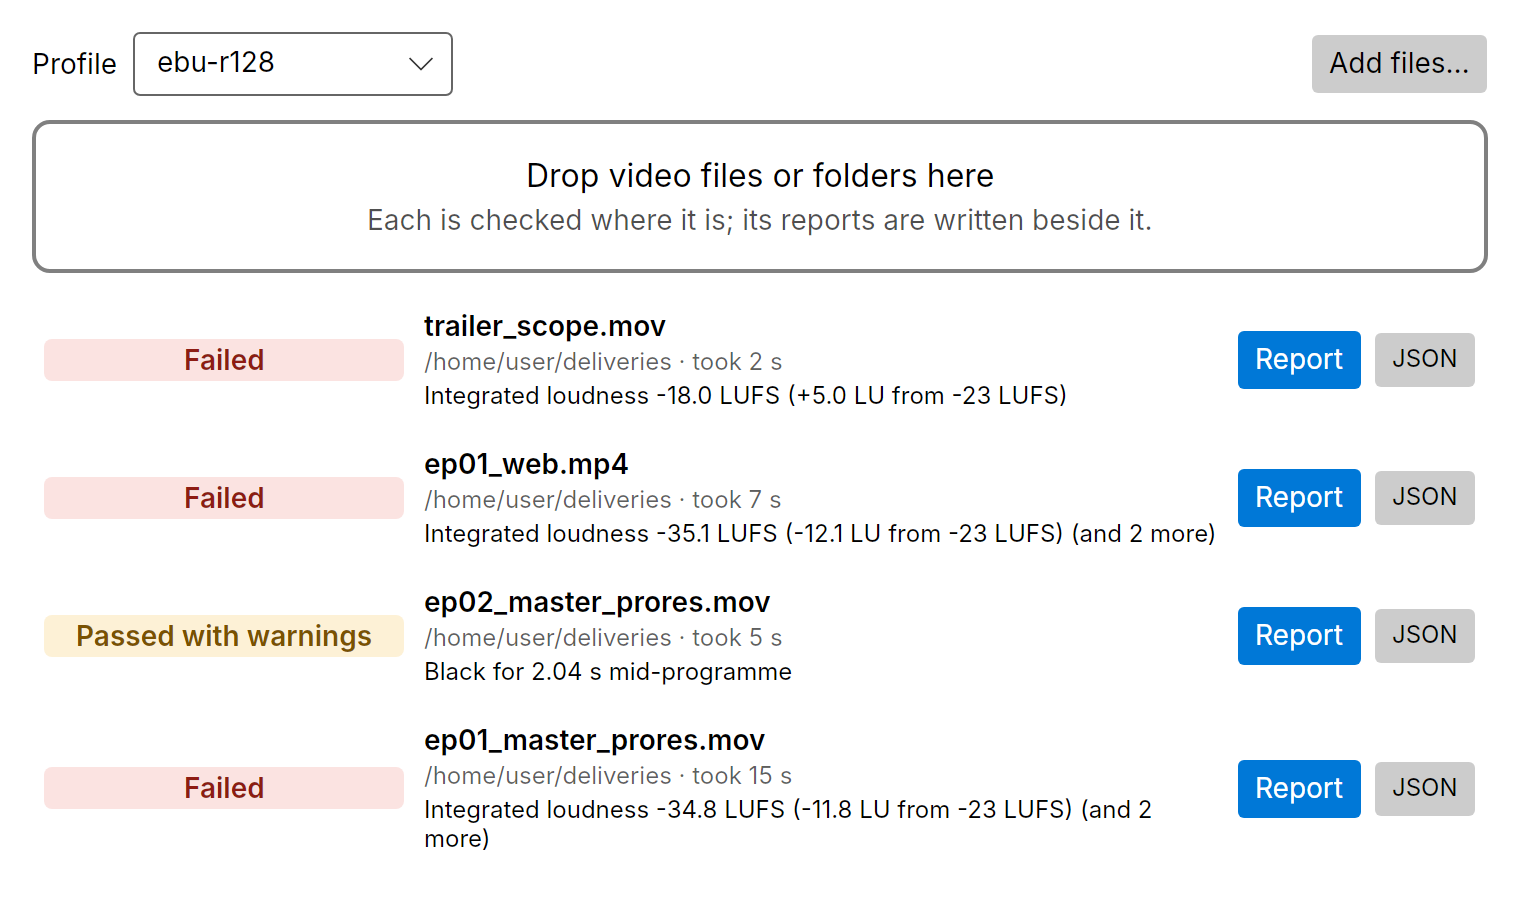
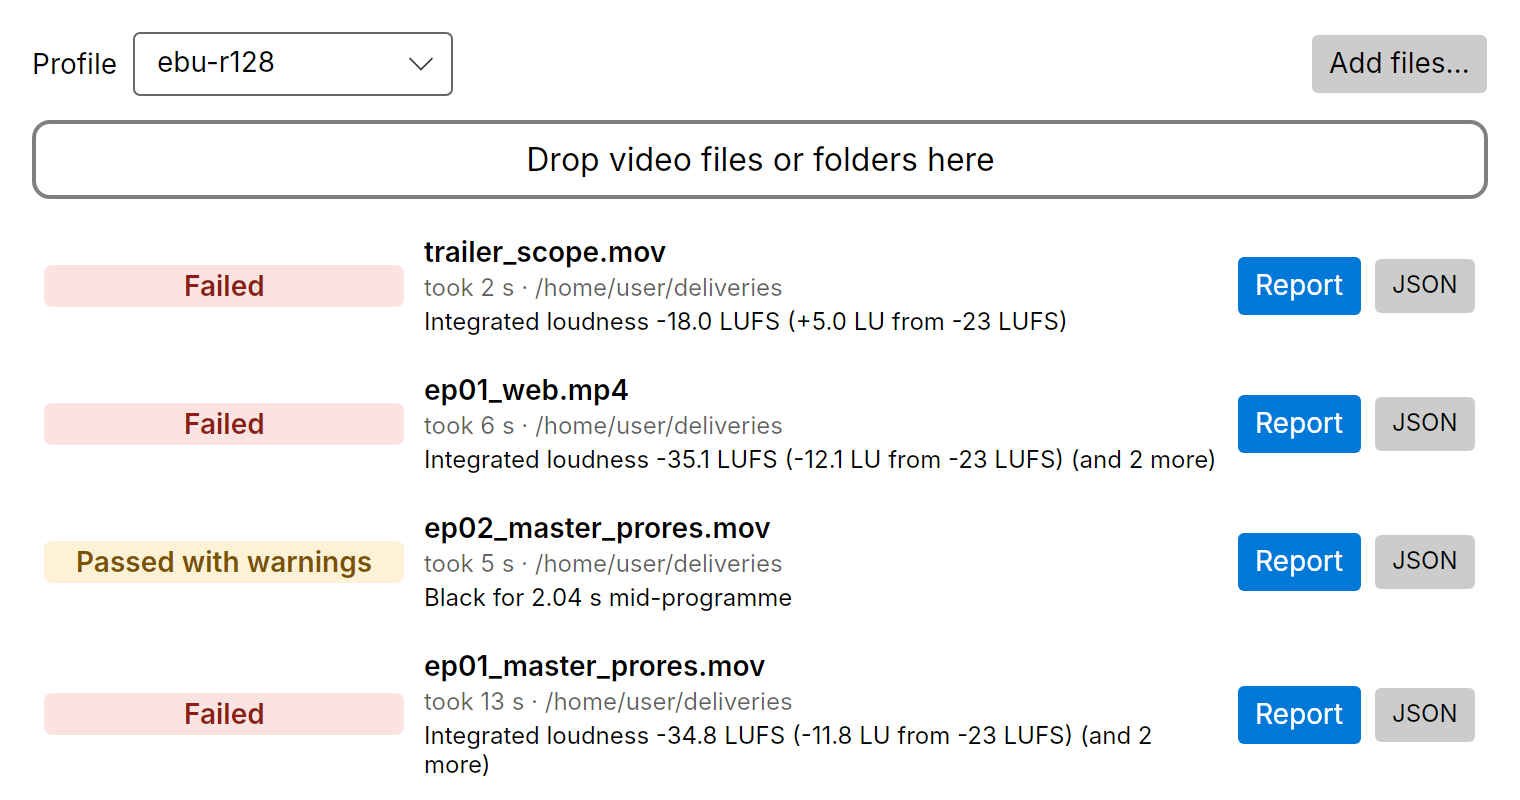
App drop zone: decision, backlog, CLAUDE.md, README screenshots
Claude-Session: https://claude.ai/code/session_015S5PSMNnZM1TYzSRVFoa1F

diff --git a/docs/decisions/2026-11-04-app-drop-zone.md b/docs/decisions/2026-11-04-app-drop-zone.md
@@ -1,0 +1,23 @@
+# The app's drop zone and narrow window
+
+Asked 2026-11-04, after the raw values were merged (decisions/2026-11-04-raw-values.md): the last of the UI review's
+items.
+
+- **The drop zone** (recommended): highlight it on drag-over, keep it from taking room once there are checks, and fix
+  the hint and file names cut off in a narrow window
+- Stop here
+
+**Answer: the drop zone.**
+
+## What was built
+
+- Files can be dropped anywhere in the window, the list too; while they are dragged over it, the drop zone shows the
+  accent border on the info tint (`MainWindow.Highlight`).
+- Once there are checks, the drop zone keeps to its first line ("Drop video files or folders here") with less padding,
+  leaving the room to the list.
+- The hint lines wrap, centred, rather than being cut mid-word; file names end in an ellipsis.
+- Below 600 px wide, a row's badge and buttons share a line and its text takes the width under them (they used to
+  squeeze it a few words wide), redrawn when the window crosses that width.
+- A row's time comes before its folder ("took 3 s · /home/user/deliveries"), in the app and the web UI alike, so a
+  long folder cut off at the end no longer hides it.
+- The README's screenshots of the app and the web UI are redone.

diff --git a/CLAUDE.md b/CLAUDE.md
@@ -139,7 +139,7 @@ What is next, in order: docs/backlog.md.
 - `src/Noga.Checking`: `Checker.Run` (one file's check: measured on its path, judged, both reports written), `Jobs`
   (checks run one at a time) and `MediaFiles` (what counts as media), shared by the CLI, its web UI and the app.
 - `src/Noga.App`: `noga-app`, the desktop app (decisions/2026-11-01-desktop-app.md): Avalonia 12, built in code
-  (no XAML); `MainWindow` (profile, drop zone and file picker, the checks with their verdicts and reports), `AppModel`
+  (no XAML); `MainWindow` (profile, drop zone and file picker, the checks with their verdicts and reports; drops anywhere in the window, the zone lit while dragging and one line once there are checks, rows stacked below 600 px: decisions/2026-11-04-app-drop-zone.md), `AppModel`
   (the queue, testable without a window). Published into the CLI's release folder; its PublishLicences ships
   SkiaSharp's notices and ANGLE's licence, and on Linux the desktop entry (`packaging/linux/`: `noga-app.desktop`,
   `install-desktop-entry.sh`, which writes it with the folder's absolute paths into ~/.local/share/applications) with

diff --git a/docs/backlog.md b/docs/backlog.md
@@ -18,11 +18,6 @@ Status: **Open**, **In progress**, **Waiting**, **Maybe**; finished (in backlog-
     10 minutes (ProRes HQ about 17 s a minute on 4 cores, flat memory), and the worst found is fixed (memory that grew
     with a QuickTime PCM file's length, 1.9 GB for 10 minutes). Still to do: the open films, and the figure in the README
 
-- The app's drop zone and narrow window
-  - Why: the same review: the drop zone always takes room and doesn't highlight on drag-over; at a narrow width the
-    hint is cut mid-word and file names clip without an ellipsis
-  - Status: Open
-
 ## Waiting
 
 - The repository renamed and public, and the name's last checks

diff --git a/docs/backlog-done.md b/docs/backlog-done.md
@@ -213,3 +213,8 @@ Finished items from [backlog.md](backlog.md), oldest first.
   - Why: the same review: a silent file's true peak reads "-Infinity dBTP" and passes; the format line shows ffprobe's
     unknown colour values as "?/?/bt709"
   - Status: Done (2026-11-04: `VideoFormat.Colour`, decisions/2026-11-04-raw-values.md)
+
+- The app's drop zone and narrow window
+  - Why: the same review: the drop zone always takes room and doesn't highlight on drag-over; at a narrow width the
+    hint is cut mid-word and file names clip without an ellipsis
+  - Status: Done (2026-11-04: decisions/2026-11-04-app-drop-zone.md)
